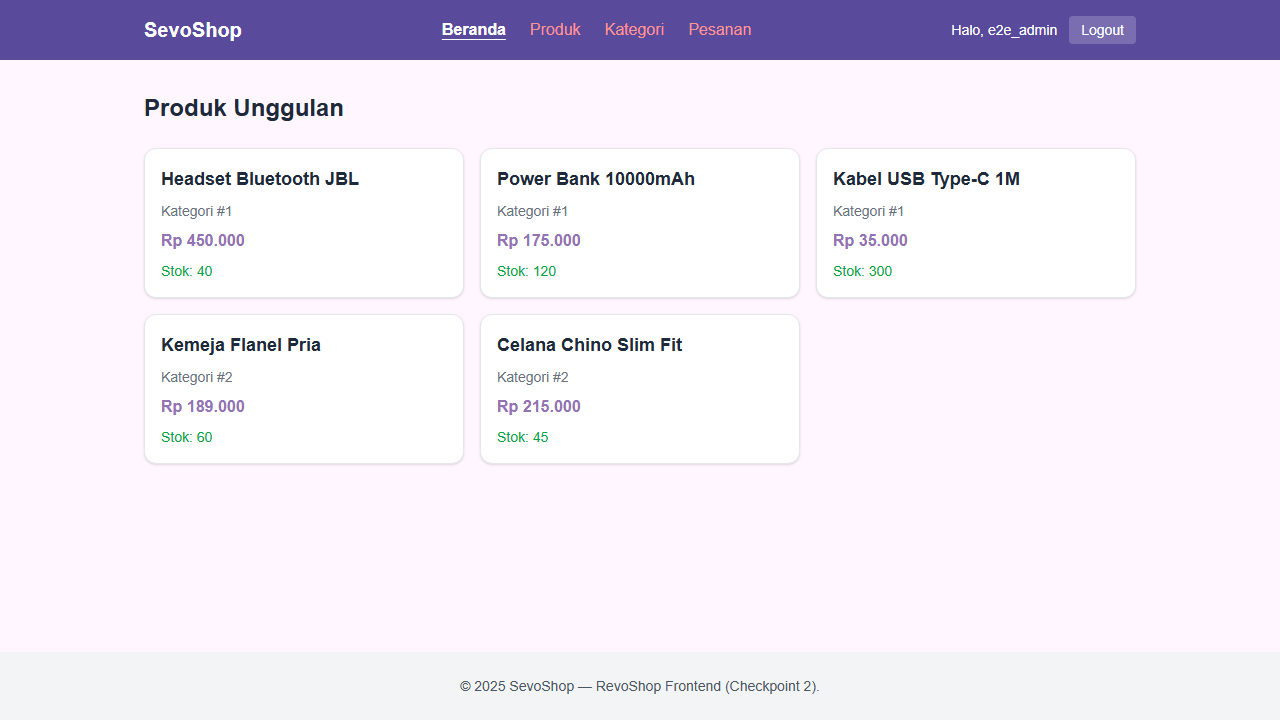
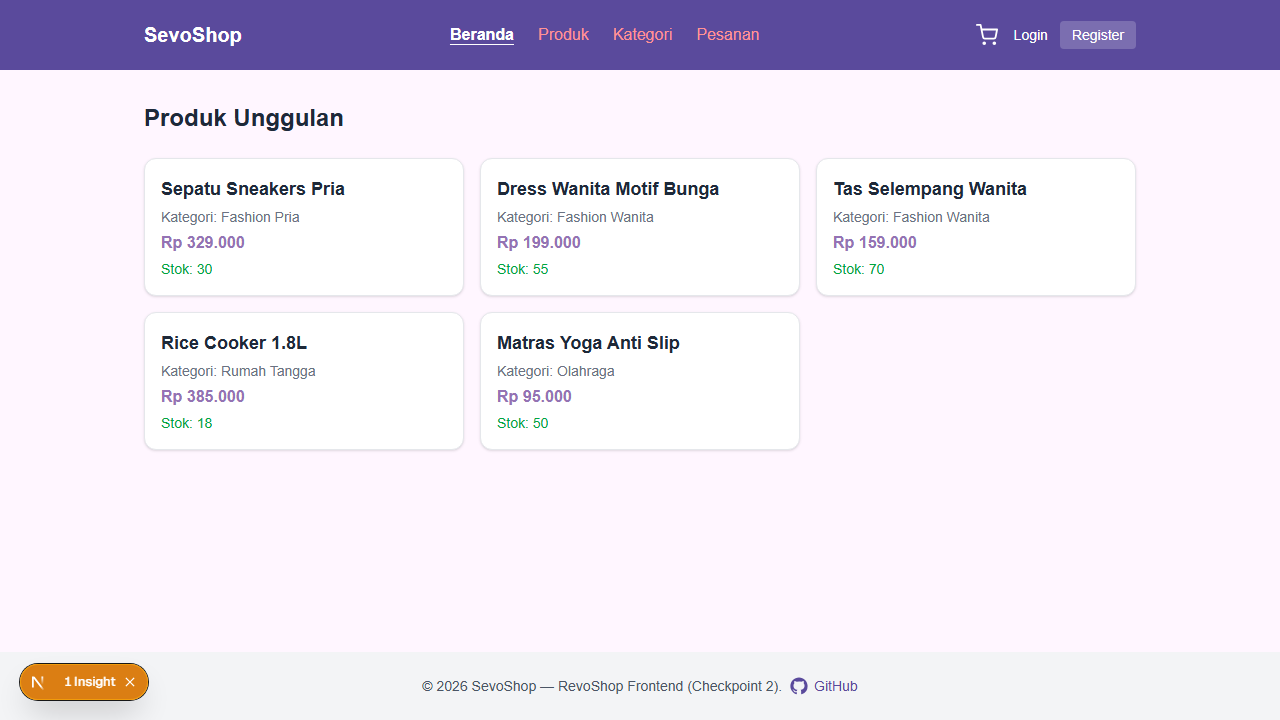
docs: regenerate route screenshots and add Playwright generator
Add automated screenshot generation covering all 13 app routes
(public, buyer, admin) and refresh the README gallery to match.

- tests/screens.spec.ts: public routes (home, products, product
  detail, categories, register, login)
- tests/screens.buyer.spec.ts: buyer session (cart, checkout,
  orders, order detail) with backend calls mocked
- tests/screens.admin.spec.ts: admin session (dashboard products,
  categories, orders) with backend calls mocked
- package.json: add "screenshots" script
- README: map every route to its screenshot file, group by access
  level, drop stale "(belum)" markers, remove empty heading

diff --git a/README.md b/README.md
@@ -165,8 +165,8 @@ module-3-sevrianh/
 ## Screenshot
 
 Satu tampilan untuk tiap route aplikasi (gambar di `sevoshop-app/docs/screenshots/`).
-Tabel di bawah memetakan setiap route ke file screenshot-nya. Tanda _(belum)_
-berarti file gambar perlu ditambahkan.
+Tabel di bawah memetakan setiap route ke file screenshot-nya. Screenshot
+di-generate ulang lewat `npm run screenshots` (Playwright).
 
 | Route | Halaman | File |
 |-------|---------|------|
@@ -176,13 +176,13 @@ berarti file gambar perlu ditambahkan.
 | `/categories` | Daftar Kategori | `categories.png` |
 | `/register` | Registrasi | `register.png` |
 | `/login` | Login | `login.png` |
-| `/cart` | Keranjang | `cart.png` _(belum)_ |
-| `/checkout` | Checkout | `checkout.png` _(belum)_ |
-| `/orders` | Daftar Pesanan | `orders.png` _(belum)_ |
-| `/orders/[id]` | Detail Pesanan | `order-detail.png` _(belum)_ |
+| `/cart` | Keranjang | `cart.png` |
+| `/checkout` | Checkout | `checkout.png` |
+| `/orders` | Daftar Pesanan | `orders.png` |
+| `/orders/[id]` | Detail Pesanan | `order-detail.png` |
 | `/dashboard` | Dashboard Admin – Produk | `dashboard.png` |
-| `/dashboard/categories` | Dashboard Admin – Kategori | `dashboard-categories.png` _(belum)_ |
-| `/dashboard/orders` | Dashboard Admin – Pesanan | `dashboard-orders.png` _(belum)_ |
+| `/dashboard/categories` | Dashboard Admin – Kategori | `dashboard-categories.png` |
+| `/dashboard/orders` | Dashboard Admin – Pesanan | `dashboard-orders.png` |
 
 ### Publik
 
@@ -228,6 +228,4 @@ berarti file gambar perlu ditambahkan.
 
 #### Dashboard Admin – Pesanan — `/dashboard/orders`
 ![Dashboard Pesanan](sevoshop-app/docs/screenshots/dashboard-orders.png)
-
-### Cart
 
